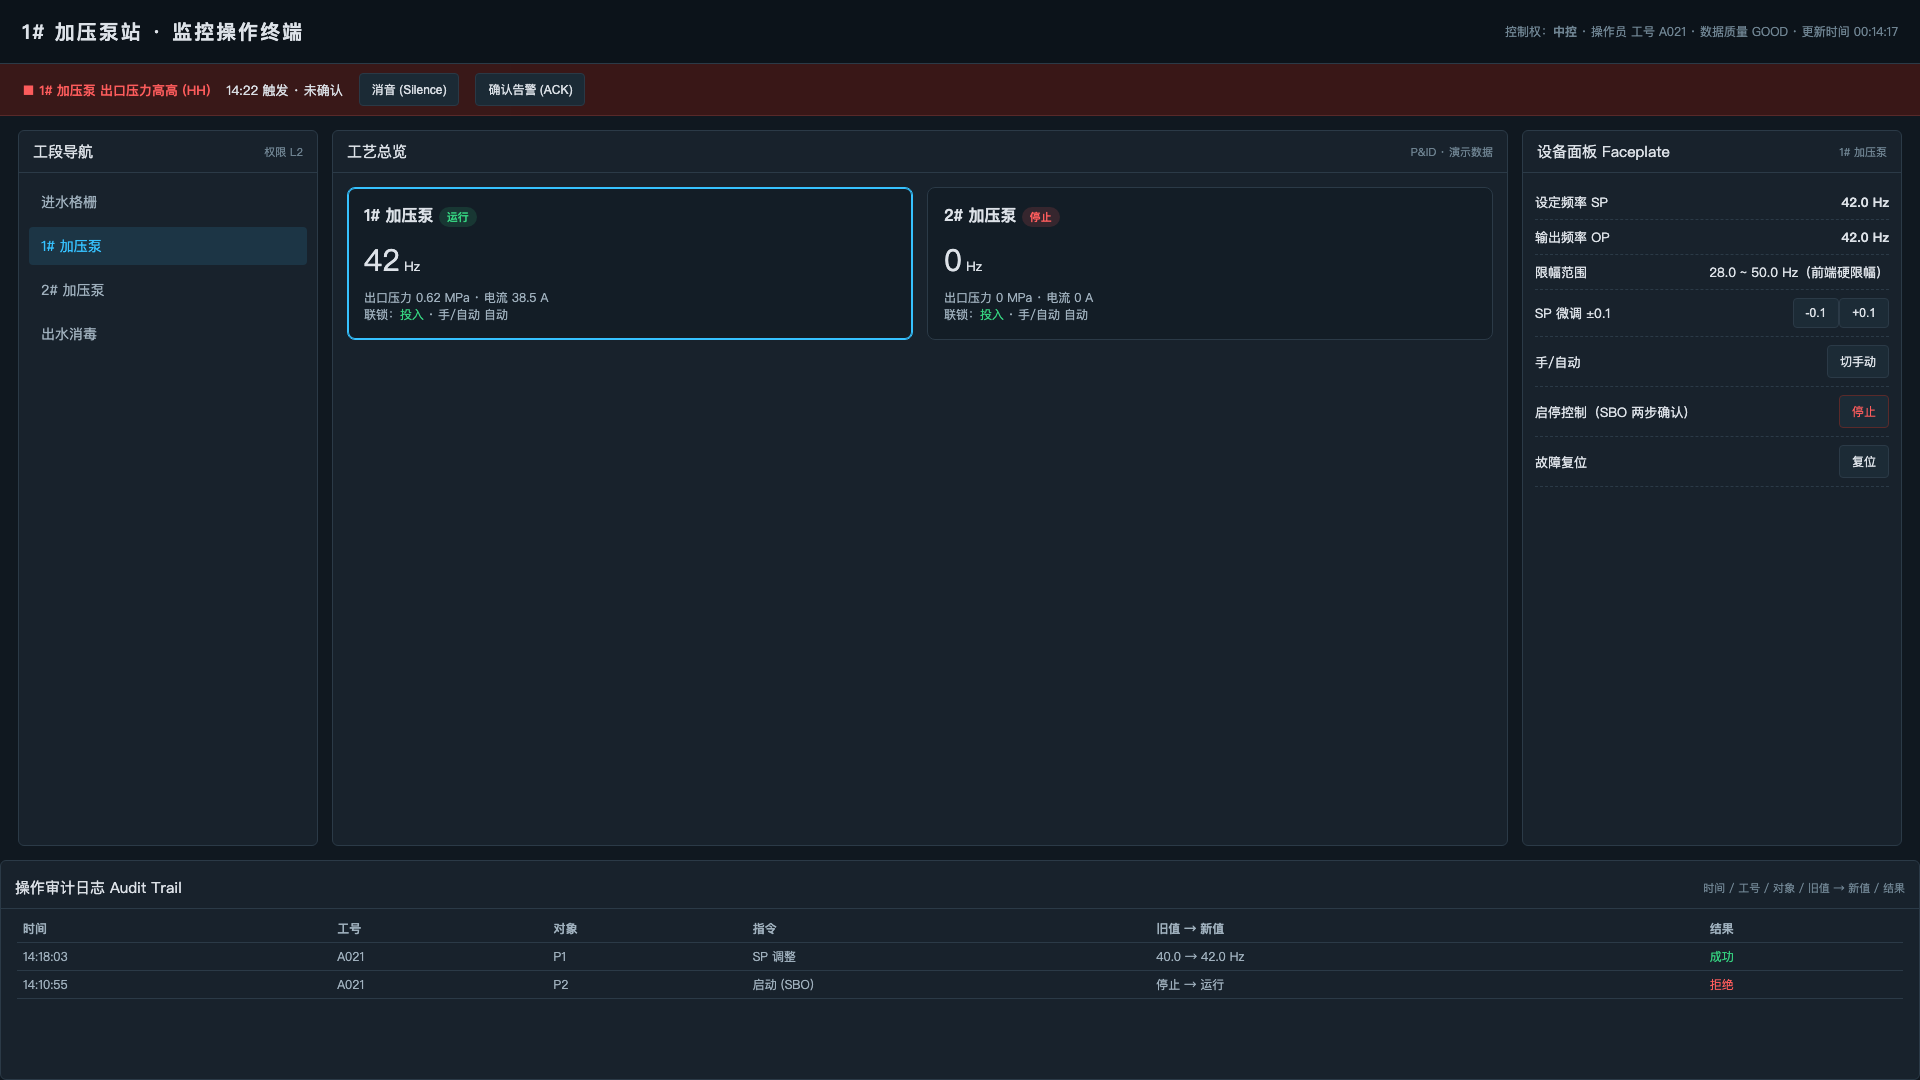
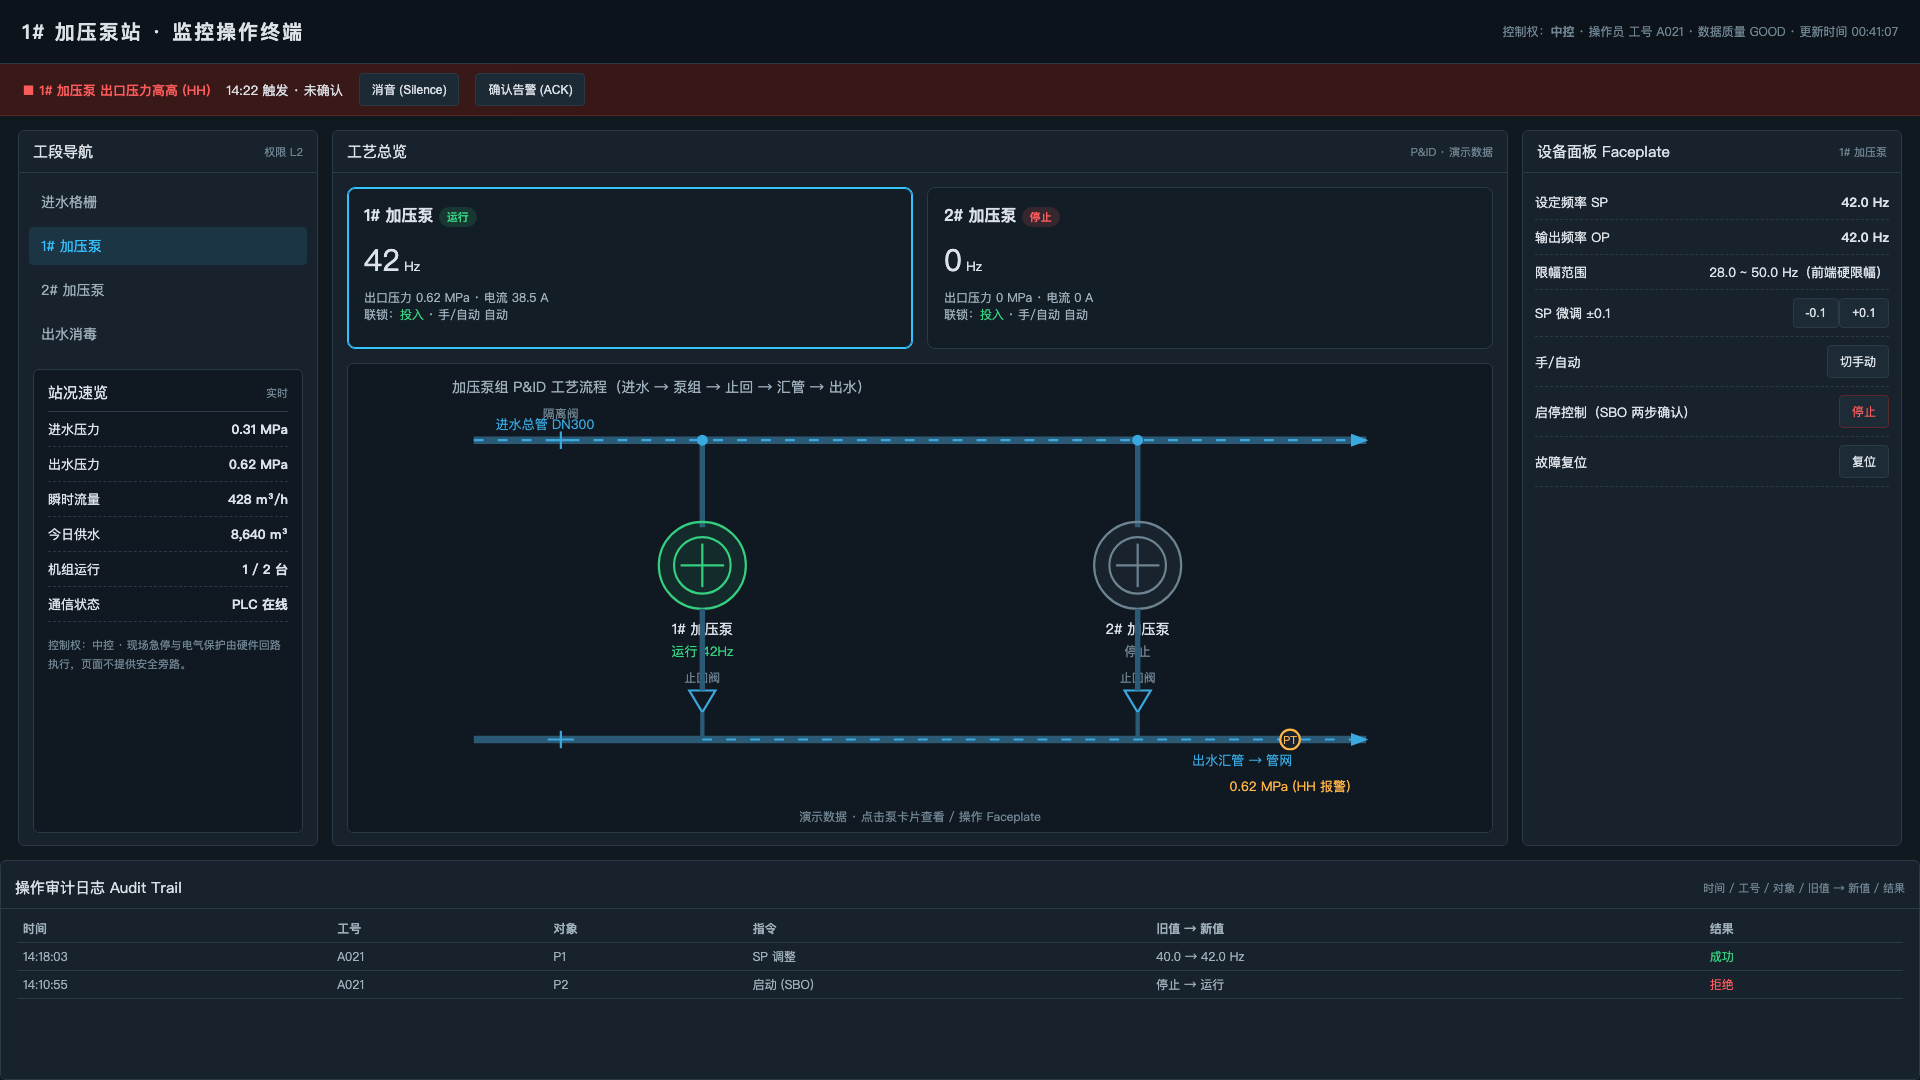
ui: 补齐空面板/P&ID主视觉与组态连线，SKILL增加UI自检规则
- pump-station-scada: 中间补P&ID工艺总览、左侧补站况速览，消除大片空白
- water-plant-overview: 主视觉viewBox 900x250->900x400，补池体剖面/水体/米标尺/格栅/曝气/出水堰
- iotview-heat-station: 分水器与鼓风机补SVG连线，解决设备漂浮
- 三张1920截图重截；SKILL.md增加面板填充度/SVG连贯硬规则与截图UI自检项

diff --git a/out/pump-station-scada/index.html b/out/pump-station-scada/index.html
@@ -23,6 +23,8 @@ body{display:flex;align-items:center;justify-content:center}.num{font-variant-nu
 .tree{padding:10px}.tree div{padding:9px 12px;margin-bottom:6px;border-radius:4px;color:var(--t2);font-size:14px}.tree div.on{background:rgba(54,194,255,.12);color:var(--accent)}
 .svgsvg{width:100%;height:100%}
 .pumps{display:grid;grid-template-columns:1fr 1fr;gap:14px;padding:14px}
+.pid{flex:1;min-height:0;margin:0 14px 12px;border:1px solid var(--line);border-radius:6px;background:#101922;overflow:hidden}
+.pid svg{width:100%;height:100%}
 .pump{border:1px solid var(--line);border-radius:8px;padding:16px;background:#131d26;cursor:pointer;transition:border-color .15s}.pump:hover{border-color:var(--accent)}.pump.sel{border-color:var(--accent);box-shadow:0 0 0 1px var(--accent) inset}
 .pump h3{margin:0 0 12px;font-size:16px}.pump .st{font-size:12px;color:var(--t2)}.pump .big{font-size:30px;margin:8px 0}
 .badge{display:inline-block;padding:2px 8px;border-radius:10px;font-size:11px}.b-run{background:rgba(53,208,127,.15);color:var(--ok)}.b-stop{background:rgba(255,93,93,.15);color:var(--alarm)}
@@ -46,17 +48,73 @@ body{display:flex;align-items:center;justify-content:center}.num{font-variant-nu
     <button class="btn" @click="ackAlarm">确认告警 (ACK)</button>
   </div>
   <main class="main">
-    <section class="panel"><div class="head">工段导航 <span>权限 L2</span></div>
+    <section class="panel" style="display:flex;flex-direction:column"><div class="head">工段导航 <span>权限 L2</span></div>
       <div class="tree"><div :class="{on:nav===n}" v-for="n in navs" :key="n" @click="nav=n">{{n}}</div></div>
+      <div class="pid" style="margin-top:0">
+        <div style="padding:12px 14px">
+          <div class="head" style="height:auto;padding:0 0 8px;border:none;border-bottom:1px solid var(--line)">站况速览 <span>实时</span></div>
+          <div class="fp-row"><span>进水压力</span><b class="num accent">0.31 MPa</b></div>
+          <div class="fp-row"><span>出水压力</span><b class="num">0.62 MPa</b></div>
+          <div class="fp-row"><span>瞬时流量</span><b class="num">428 m³/h</b></div>
+          <div class="fp-row"><span>今日供水</span><b class="num">8,640 m³</b></div>
+          <div class="fp-row"><span>机组运行</span><b class="ok">1 / 2 台</b></div>
+          <div class="fp-row"><span>通信状态</span><b class="ok">PLC 在线</b></div>
+          <div style="margin-top:14px;font-size:11px;color:#6f8492;line-height:1.7">控制权：{{controlMode}} · 现场急停与电气保护由硬件回路执行，页面不提供安全旁路。</div>
+        </div>
+      </div>
     </section>
-    <section class="panel"><div class="head">工艺总览 <span>P&ID · 演示数据</span></div>
-      <div class="pumps">
+    <section class="panel" style="display:flex;flex-direction:column"><div class="head">工艺总览 <span>P&ID · 演示数据</span></div>
+      <div class="pumps" style="height:190px">
         <div class="pump" :class="{sel:selected===p.id}" v-for="p in pumps" :key="p.id" @click="selectPump(p)">
           <h3>{{p.name}} <span class="badge" :class="p.run?'b-run':'b-stop'">{{p.run?'运行':'停止'}}</span></h3>
           <div class="big num">{{p.hz}}<small style="font-size:13px"> Hz</small></div>
           <div class="st">出口压力 {{p.pressure}} MPa · 电流 {{p.current}} A</div>
           <div class="st">联锁：<span :style="{color:p.interlock?'#35d07f':'#ffb547'}">{{p.interlock?'投入':'退出'}}</span> · 手/自动 {{p.auto?'自动':'手动'}}</div>
         </div>
+      </div>
+      <div class="pid">
+        <svg viewBox="0 0 900 430" preserveAspectRatio="xMidYMid meet" font-family="Microsoft YaHei,PingFang SC,sans-serif">
+          <defs><marker id="pAr" markerWidth="9" markerHeight="9" refX="7" refY="3" orient="auto"><path d="M0,0 L0,6 L8,3 z" fill="#3aa9e0"/></marker></defs>
+          <text x="20" y="26" fill="#9fb0bd" font-size="13">加压泵组 P&ID 工艺流程（进水 → 泵组 → 止回 → 汇管 → 出水）</text>
+          <!-- 进水总管 -->
+          <line x1="40" y1="70" x2="860" y2="70" stroke="#2b5a76" stroke-width="7"/>
+          <line x1="40" y1="70" x2="860" y2="70" stroke="#3aa9e0" stroke-width="2" stroke-dasharray="9 13" marker-end="url(#pAr)"/>
+          <text x="60" y="60" fill="#3aa9e0" font-size="12">进水总管 DN300</text>
+          <!-- 吸水支管到两台泵 -->
+          <line x1="250" y1="70" x2="250" y2="150" stroke="#2b5a76" stroke-width="5"/>
+          <line x1="650" y1="70" x2="650" y2="150" stroke="#2b5a76" stroke-width="5"/>
+          <circle cx="250" cy="70" r="5" fill="#3aa9e0"/><circle cx="650" cy="70" r="5" fill="#3aa9e0"/>
+          <!-- 泵符号 P1/P2 -->
+          <g v-for="(p,i) in pumps" :key="p.id">
+            <circle :cx="250+i*400" cy="185" r="40" :fill="p.run?'rgba(53,208,127,.10)':'rgba(111,132,146,.10)'" :stroke="p.run?'#35d07f':'#6f8492'" stroke-width="2"/>
+            <circle :cx="250+i*400" cy="185" r="26" fill="none" :stroke="p.run?'#35d07f':'#6f8492'" stroke-width="2"/>
+            <line :x1="230+i*400" y1="185" :x2="270+i*400" y2="185" :stroke="p.run?'#35d07f':'#6f8492'" stroke-width="2"/>
+            <line :x1="250+i*400" y1="165" :x2="250+i*400" y2="205" :stroke="p.run?'#35d07f':'#6f8492'" stroke-width="2"/>
+            <text :x="250+i*400" y="248" fill="#dde2e8" font-size="13" text-anchor="middle">{{p.name}}</text>
+            <text :x="250+i*400" y="268" :fill="p.run?'#35d07f':'#6f8492'" font-size="12" text-anchor="middle">{{p.run?'运行 '+p.hz+'Hz':'停止'}}</text>
+            <!-- 止回阀 -->
+            <polygon :points="(250+i*400-12)+',300 '+(250+i*400+12)+',300 '+(250+i*400)+',320'" fill="none" stroke="#3aa9e0" stroke-width="2"/>
+            <line :x1="250+i*400" y1="320" :x2="250+i*400" y2="345" stroke="#2b5a76" stroke-width="4"/>
+            <text :x="250+i*400" y="292" fill="#6f8492" font-size="11" text-anchor="middle">止回阀</text>
+          </g>
+          <!-- 泵到止回阀 -->
+          <line x1="250" y1="225" x2="250" y2="300" stroke="#2b5a76" stroke-width="5"/>
+          <line x1="650" y1="225" x2="650" y2="300" stroke="#2b5a76" stroke-width="5"/>
+          <!-- 出水汇管 -->
+          <line x1="40" y1="345" x2="860" y2="345" stroke="#2b5a76" stroke-width="7"/>
+          <line x1="250" y1="345" x2="860" y2="345" stroke="#3aa9e0" stroke-width="2" stroke-dasharray="9 13" marker-end="url(#pAr)"/>
+          <text x="700" y="368" fill="#3aa9e0" font-size="12">出水汇管 → 管网</text>
+          <!-- 压力测点 -->
+          <circle cx="790" cy="345" r="9" fill="#18222c" stroke="#ffb547" stroke-width="2"/>
+          <text x="790" y="349" fill="#ffb547" font-size="10" text-anchor="middle">PT</text>
+          <text x="790" y="392" fill="#ffb547" font-size="12" text-anchor="middle">0.62 MPa (HH 报警)</text>
+          <!-- 隔离阀 -->
+          <g fill="none" stroke="#3aa9e0" stroke-width="2">
+            <path d="M120 62 l0 16 M108 70 l24 0"/><path d="M120 337 l0 16 M108 345 l24 0"/>
+          </g>
+          <text x="120" y="50" fill="#6f8492" font-size="11" text-anchor="middle">隔离阀</text>
+          <text x="450" y="420" fill="#6f8492" font-size="11" text-anchor="middle">演示数据 · 点击泵卡片查看 / 操作 Faceplate</text>
+        </svg>
       </div>
     </section>
     <section class="panel"><div class="head">设备面板 Faceplate <span>{{selectedName}}</span></div>

diff --git a/out/water-plant-overview/index.html b/out/water-plant-overview/index.html
@@ -61,16 +61,49 @@ body{display:flex;align-items:center;justify-content:center}.num{font-family:"Ba
       </div>
       <article class="panel"><div class="head"><b>工艺流程主视觉</b><span>进水 → 生化 → 深度 → 出水</span></div>
         <div class="flow">
-          <svg viewBox="0 0 900 250" preserveAspectRatio="xMidYMid meet">
-            <defs><marker id="arrow" markerWidth="10" markerHeight="10" refX="8" refY="3" orient="auto"><path d="M0,0 L0,6 L9,3 z" fill="#36c2ff"/></marker></defs>
-            <g font-family="Microsoft YaHei,PingFang SC,sans-serif" font-size="13" text-anchor="middle">
+          <svg viewBox="0 0 900 400" preserveAspectRatio="xMidYMid meet">
+            <defs>
+              <marker id="arrow" markerWidth="10" markerHeight="10" refX="8" refY="3" orient="auto"><path d="M0,0 L0,6 L9,3 z" fill="#36c2ff"/></marker>
+              <linearGradient id="water" x1="0" y1="0" x2="0" y2="1"><stop offset="0" stop-color="#2a7fa8" stop-opacity=".75"/><stop offset="1" stop-color="#12405a" stop-opacity=".55"/></linearGradient>
+            </defs>
+            <g font-family="Microsoft YaHei,PingFang SC,sans-serif" text-anchor="middle">
+              <text x="450" y="26" fill="#a8bac8" font-size="15">污水处理主工艺链路 · 测点贴合池体节点</text>
+              <!-- 池体连接管线（水面高度） -->
+              <line x1="90" y1="205" x2="810" y2="205" stroke="#36c2ff" stroke-width="3" marker-end="url(#arrow)" opacity=".55"/>
+              <!-- 五段池体剖面 -->
               <g v-for="(u,i) in units" :key="u.name">
-                <line :x1="30+i*180" y1="95" :x2="210+i*180" y2="95" stroke="#36c2ff" stroke-width="3" :marker-end="'url(#arrow)'" opacity="0.7"/>
-                <rect :x="60+i*180" y="55" width="120" height="80" rx="8" :fill="u.ok?'rgba(53,208,127,.10)':'rgba(255,181,71,.10)'" :stroke="u.ok?'#35d07f':'#ffb547'" stroke-width="1.5"/>
-                <text :x="120+i*180" y="88" fill="#f2f7fa" font-size="14">{{u.name}}</text>
-                <text :x="120+i*180" y="112" :fill="u.ok?'#35d07f':'#ffb547'" class="num">{{u.val}} {{u.unit}}</text>
+                <g :transform="'translate('+(90+i*160)+',90)'">
+                  <!-- 池壁 -->
+                  <rect x="0" y="0" width="130" height="150" rx="6" fill="rgba(15,29,42,.9)" :stroke="u.ok?'#35d07f':'#ffb547'" stroke-width="2"/>
+                  <!-- 水体 -->
+                  <rect x="6" y="62" width="118" height="82" rx="3" fill="url(#water)"/>
+                  <!-- 水面线 -->
+                  <line x1="6" y1="62" x2="124" y2="62" stroke="#5ec8f5" stroke-width="1.5" opacity=".8"/>
+                  <!-- 搅拌/曝气符号（仅生化池 i=2） -->
+                  <g v-if="i===2">
+                    <line x1="40" y1="30" x2="40" y2="70" stroke="#9fb0bd" stroke-width="2"/>
+                    <line x1="90" y1="30" x2="90" y2="70" stroke="#9fb0bd" stroke-width="2"/>
+                    <circle cx="40" cy="95" r="9" fill="none" stroke="#5ec8f5" stroke-width="2"/>
+                    <circle cx="90" cy="95" r="9" fill="none" stroke="#5ec8f5" stroke-width="2"/>
+                  </g>
+                  <!-- 格栅符号（i=0） -->
+                  <g v-if="i===0"><line v-for="k in 5" :key="k" :x1="20+k*20" y1="30" :x2="20+k*20" y2="70" stroke="#9fb0bd" stroke-width="1.5"/></g>
+                  <!-- 出水堰（i=4） -->
+                  <g v-if="i===4"><path d="M100 62 l14 -14 0 14" fill="none" stroke="#5ec8f5" stroke-width="2"/></g>
+                  <!-- 池名 -->
+                  <text x="65" y="-14" fill="#f2f7fa" font-size="14">{{u.name}}</text>
+                  <!-- 测点值 -->
+                  <text x="65" y="118" :fill="u.ok?'#8ef0b9':'#ffcf8a'" font-size="13" class="num">{{u.val}} {{u.unit}}</text>
+                  <!-- 米标尺 -->
+                  <line x1="-6" y1="0" x2="-6" y2="150" stroke="#3a566a" stroke-width="1"/>
+                  <line x1="-10" y1="0" x2="-2" y2="0" stroke="#3a566a" stroke-width="1"/>
+                  <line x1="-10" y1="150" x2="-2" y2="150" stroke="#3a566a" stroke-width="1"/>
+                </g>
               </g>
-              <text x="450" y="185" fill="#708594" font-size="12">演示数据 · 测点贴合工艺节点，停机设备停止动画</text>
+              <!-- 底部工艺说明 -->
+              <text x="450" y="292" fill="#708594" font-size="12">进水 → 格栅 → 沉砂 → 生化（曝气）→ 二沉 → 消毒出水 · 一级A 达标排放</text>
+              <text x="450" y="320" fill="#35d07f" font-size="13">出水 COD 38.2 mg/L · 氨氮 2.4 mg/L · 达标裕量充足</text>
+              <text x="450" y="352" fill="#708594" font-size="11">演示数据 · 测点贴合工艺节点，停机设备停止动画</text>
             </g>
           </svg>
         </div>

diff --git a/out/iotview-heat-station/index.html b/out/iotview-heat-station/index.html
@@ -82,6 +82,11 @@ body{display:flex;align-items:center;justify-content:center}.num{font-variant-nu
             <path d="M560,380 H700 V300" fill="none" stroke="#36c2ff" stroke-width="2.5" class="flowdot" stroke-dasharray="10 14" marker-end="url(#ab)"/>
             <path d="M760,300 V470 H300 V430" fill="none" stroke="#1d4a63" stroke-width="7"/>
             <path d="M760,300 V470 H300 V430" fill="none" stroke="#36c2ff" stroke-width="2.5" class="flowdot" stroke-dasharray="10 14"/>
+            <!-- 分水器支管：二次供水管向上接入分水器 -->
+            <path d="M700,300 V175 H730" fill="none" stroke="#1d4a63" stroke-width="5"/>
+            <path d="M700,300 V175 H730" fill="none" stroke="#36c2ff" stroke-width="2" class="flowdot" stroke-dasharray="8 12"/>
+            <!-- 鼓风机支管：从分水器侧接出（虚线，表示关联设备） -->
+            <path d="M730,175 H860 V300" fill="none" stroke="#5a4a2a" stroke-width="3" stroke-dasharray="6 8"/>
             <!-- 补水（绿色细线） -->
             <path d="M120,500 H300" fill="none" stroke="#1d5a3a" stroke-width="5"/>
             <path d="M120,500 H300" fill="none" stroke="#35d07f" stroke-width="2" class="flowdot" stroke-dasharray="8 12"/>
